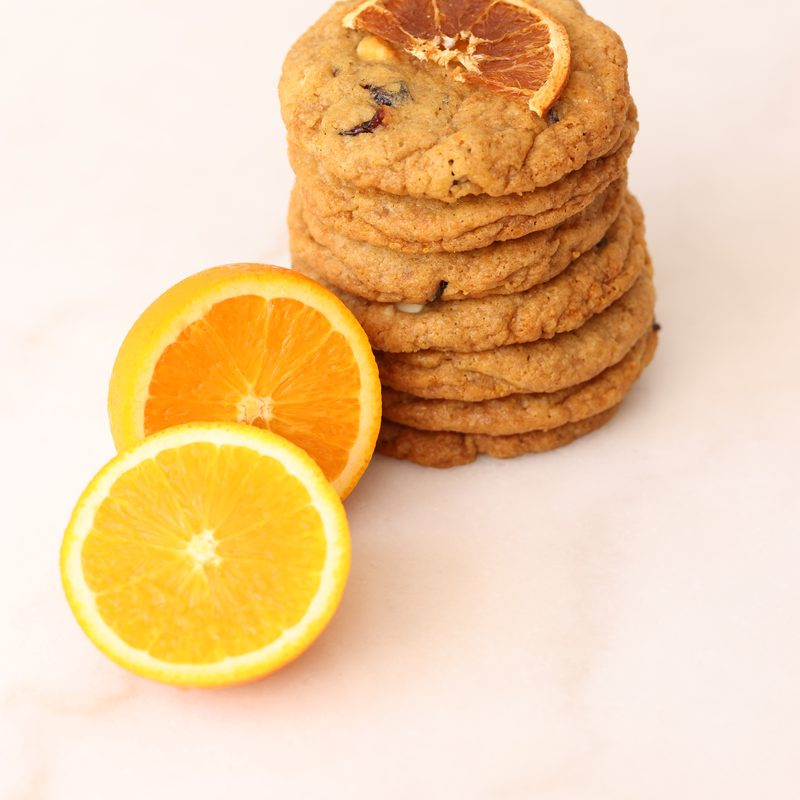
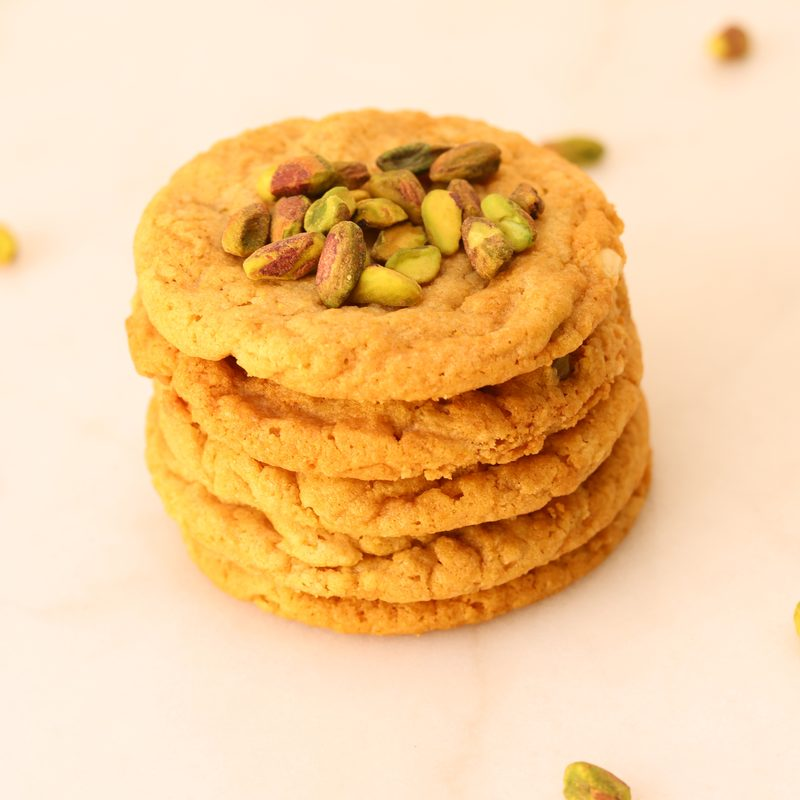
Gluten free: foto de galletas de pistacho
Claude-Session: https://claude.ai/code/session_018AwTLvJoWd1gssetmkZYqk

diff --git a/public/galletas.html b/public/galletas.html
@@ -36,7 +36,7 @@
   </div>
 </section>
 <section>
-  <div class="wrap grid"><div class="card"><img class="photo-img" src="img/galleta-new-york.jpg" alt="Galleta con chispas de chocolate mojada en leche" width="800" height="800" loading="lazy"><h3>Cookies estilo New York</h3><p>Grandes, gruesas y suaves por dentro.</p><a class="btn wa small" data-wa="Hola Cupcakes Garden, quiero pedir: Cookies estilo New York." href="#"><svg aria-hidden="true"><use href="#wa-icon"/></svg>Pedir</a></div><div class="card"><img class="photo-img" src="img/galleta-gourmand.jpg" alt="Galleta gourmand cubierta de chocolate" width="800" height="800" loading="lazy"><h3>Cookies gourmand</h3><p>Combinaciones intensas para los más golosos.</p><a class="btn wa small" data-wa="Hola Cupcakes Garden, quiero pedir: Cookies gourmand." href="#"><svg aria-hidden="true"><use href="#wa-icon"/></svg>Pedir</a></div><div class="card"><img class="photo-img" src="img/galleta-americana.jpg" alt="Torre de galletas de macadamia" width="800" height="800" loading="lazy"><h3>Cookies americanas</h3><p>La galleta clásica, crujiente por fuera.</p><a class="btn wa small" data-wa="Hola Cupcakes Garden, quiero pedir: Cookies americanas." href="#"><svg aria-hidden="true"><use href="#wa-icon"/></svg>Pedir</a></div><div class="card"><img class="photo-img" src="img/alfajores.jpg" alt="Alfajores bañados en chocolate y merengue" width="800" height="800" loading="lazy"><h3>Alfajores</h3><p>Rellenos de dulce de leche.</p><a class="btn wa small" data-wa="Hola Cupcakes Garden, quiero pedir: Alfajores." href="#"><svg aria-hidden="true"><use href="#wa-icon"/></svg>Pedir</a></div><div class="card"><img class="photo-img" src="img/galletas-coleccion.jpg" alt="Caja de galletas linzer con mermelada" width="800" height="800" loading="lazy"><h3>Galletas de colección</h3><p>Spritz, cottage y linzer.</p><a class="btn wa small" data-wa="Hola Cupcakes Garden, quiero pedir: Galletas de colección." href="#"><svg aria-hidden="true"><use href="#wa-icon"/></svg>Pedir</a></div><div class="card"><img class="photo-img" src="img/galleta-gluten-free.jpg" alt="Torre de galletas de naranja con rodajas de naranja" width="800" height="800" loading="lazy"><h3>Gluten free</h3><p>Opciones sin gluten.</p><a class="btn wa small" data-wa="Hola Cupcakes Garden, quiero pedir: Gluten free." href="#"><svg aria-hidden="true"><use href="#wa-icon"/></svg>Pedir</a></div></div>
+  <div class="wrap grid"><div class="card"><img class="photo-img" src="img/galleta-new-york.jpg" alt="Galleta con chispas de chocolate mojada en leche" width="800" height="800" loading="lazy"><h3>Cookies estilo New York</h3><p>Grandes, gruesas y suaves por dentro.</p><a class="btn wa small" data-wa="Hola Cupcakes Garden, quiero pedir: Cookies estilo New York." href="#"><svg aria-hidden="true"><use href="#wa-icon"/></svg>Pedir</a></div><div class="card"><img class="photo-img" src="img/galleta-gourmand.jpg" alt="Galleta gourmand cubierta de chocolate" width="800" height="800" loading="lazy"><h3>Cookies gourmand</h3><p>Combinaciones intensas para los más golosos.</p><a class="btn wa small" data-wa="Hola Cupcakes Garden, quiero pedir: Cookies gourmand." href="#"><svg aria-hidden="true"><use href="#wa-icon"/></svg>Pedir</a></div><div class="card"><img class="photo-img" src="img/galleta-americana.jpg" alt="Torre de galletas de macadamia" width="800" height="800" loading="lazy"><h3>Cookies americanas</h3><p>La galleta clásica, crujiente por fuera.</p><a class="btn wa small" data-wa="Hola Cupcakes Garden, quiero pedir: Cookies americanas." href="#"><svg aria-hidden="true"><use href="#wa-icon"/></svg>Pedir</a></div><div class="card"><img class="photo-img" src="img/alfajores.jpg" alt="Alfajores bañados en chocolate y merengue" width="800" height="800" loading="lazy"><h3>Alfajores</h3><p>Rellenos de dulce de leche.</p><a class="btn wa small" data-wa="Hola Cupcakes Garden, quiero pedir: Alfajores." href="#"><svg aria-hidden="true"><use href="#wa-icon"/></svg>Pedir</a></div><div class="card"><img class="photo-img" src="img/galletas-coleccion.jpg" alt="Caja de galletas linzer con mermelada" width="800" height="800" loading="lazy"><h3>Galletas de colección</h3><p>Spritz, cottage y linzer.</p><a class="btn wa small" data-wa="Hola Cupcakes Garden, quiero pedir: Galletas de colección." href="#"><svg aria-hidden="true"><use href="#wa-icon"/></svg>Pedir</a></div><div class="card"><img class="photo-img" src="img/galleta-gluten-free.jpg" alt="Torre de galletas de pistacho" width="800" height="800" loading="lazy"><h3>Gluten free</h3><p>Opciones sin gluten.</p><a class="btn wa small" data-wa="Hola Cupcakes Garden, quiero pedir: Gluten free." href="#"><svg aria-hidden="true"><use href="#wa-icon"/></svg>Pedir</a></div></div>
 </section>
 <section class="tint">
   <div class="wrap grid cols-2">

diff --git a/build.py b/build.py
@@ -52,7 +52,7 @@ FOTOS = {
     "Cookies americanas": ("galleta-americana.jpg", "Torre de galletas de macadamia"),
     "Alfajores": ("alfajores.jpg", "Alfajores bañados en chocolate y merengue"),
     "Galletas de colección": ("galletas-coleccion.jpg", "Caja de galletas linzer con mermelada"),
-    "Gluten free": ("galleta-gluten-free.jpg", "Torre de galletas de naranja con rodajas de naranja"),
+    "Gluten free": ("galleta-gluten-free.jpg", "Torre de galletas de pistacho"),
     "Tiramisú collection": ("tiramisu.jpg", "Frascos de postre en capas de varios sabores"),
 }
 
